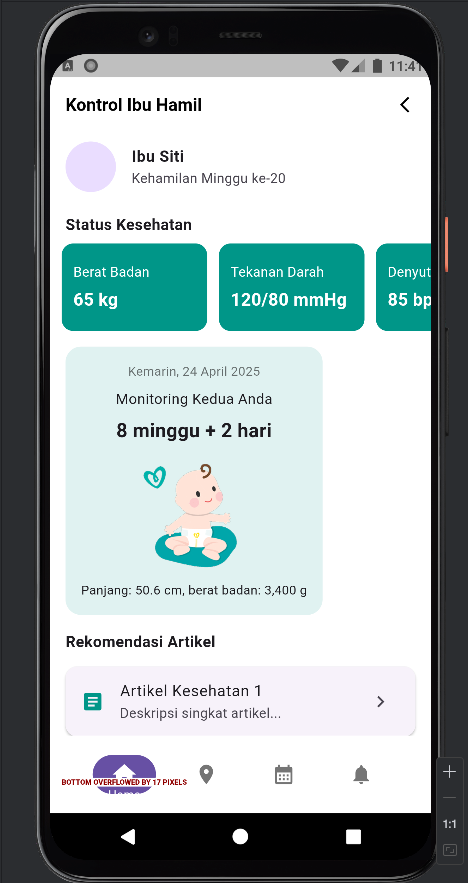
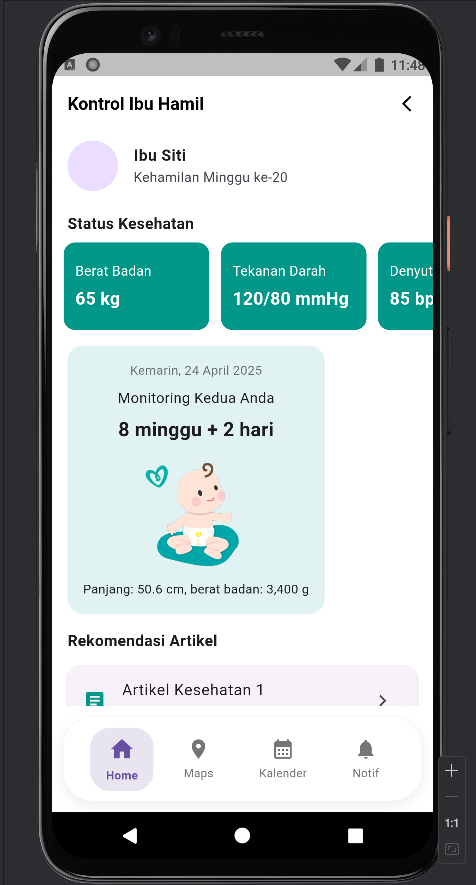
flutter integrasi

diff --git a/aplikasi/lib/main.dart b/aplikasi/lib/main.dart
@@ -1,6 +1,6 @@
 import 'dart:async';
 import 'package:flutter/material.dart';
-import 'package:animations/animations.dart'; // ⬅ tambahan
+import 'package:animations/animations.dart';
 import 'home_page.dart';
 import 'maps_page.dart';
 
@@ -107,7 +107,7 @@ class _SplashScreenState extends State<SplashScreen>
   }
 }
 
-/// MainScreen dengan custom bottom nav + transition
+/// MainScreen dengan modern bottom nav + transition
 class MainScreen extends StatefulWidget {
   const MainScreen({super.key});
 
@@ -143,69 +143,74 @@ class _MainScreenState extends State<MainScreen> {
           child: _pages[_currentIndex],
         ),
       ),
-      bottomNavigationBar: Container(
-        color: Colors.transparent,
-        child: ClipRRect(
-          borderRadius: const BorderRadius.only(
-            topLeft: Radius.circular(24),
-            topRight: Radius.circular(24),
-          ),
-          child: BottomAppBar(
+      bottomNavigationBar: Padding(
+        padding: const EdgeInsets.all(12.0),
+        child: Container(
+          decoration: BoxDecoration(
             color: Colors.white,
-            elevation: 8,
-            child: Padding(
-              padding: const EdgeInsets.symmetric(horizontal: 16, vertical: 8),
-              child: Row(
-                mainAxisAlignment: MainAxisAlignment.spaceAround,
-                children: List.generate(4, (index) {
-                  final icons = [
-                    Icons.home,
-                    Icons.location_on,
-                    Icons.calendar_month,
-                    Icons.notifications
-                  ];
-                  final labels = ["Home", "Maps", "Kalender", "Notif"];
-                  final isSelected = _currentIndex == index;
-
-                  return GestureDetector(
-                    onTap: () => setState(() => _currentIndex = index),
-                    child: AnimatedContainer(
-                      duration: const Duration(milliseconds: 300),
-                      padding: const EdgeInsets.symmetric(
-                          horizontal: 16, vertical: 8),
-                      decoration: BoxDecoration(
-                        color: isSelected
-                            ? Theme.of(context).primaryColor
-                            : Colors.transparent,
-                        borderRadius: BorderRadius.circular(20),
-                      ),
-                      child: Column(
-                        mainAxisSize: MainAxisSize.min,
-                        children: [
-                          AnimatedScale(
-                            duration: const Duration(milliseconds: 300),
-                            scale: isSelected ? 1.2 : 1.0,
-                            child: Icon(
-                              icons[index],
-                              color: isSelected
-                                  ? Colors.white
-                                  : Colors.grey.shade600,
-                            ),
-                          ),
-                          if (isSelected)
-                            Text(
-                              labels[index],
-                              style: const TextStyle(
-                                color: Colors.white,
-                                fontSize: 12,
-                              ),
-                            ),
-                        ],
-                      ),
-                    ),
-                  );
-                }),
+            borderRadius: BorderRadius.circular(30),
+            boxShadow: [
+              BoxShadow(
+                color: Colors.black.withOpacity(0.08),
+                blurRadius: 12,
+                offset: const Offset(0, 4),
               ),
+            ],
+          ),
+          child: Padding(
+            padding: const EdgeInsets.symmetric(vertical: 10, horizontal: 20),
+            child: Row(
+              mainAxisAlignment: MainAxisAlignment.spaceAround,
+              children: List.generate(4, (index) {
+                final icons = [
+                  Icons.home,
+                  Icons.location_on,
+                  Icons.calendar_month,
+                  Icons.notifications
+                ];
+                final labels = ["Home", "Maps", "Kalender", "Notif"];
+                final isSelected = _currentIndex == index;
+
+                return GestureDetector(
+                  onTap: () => setState(() => _currentIndex = index),
+                  child: AnimatedContainer(
+                    duration: const Duration(milliseconds: 300),
+                    padding: const EdgeInsets.symmetric(
+                        horizontal: 16, vertical: 8),
+                    decoration: BoxDecoration(
+                      color: isSelected
+                          ? Theme.of(context).primaryColor.withOpacity(0.15)
+                          : Colors.transparent,
+                      borderRadius: BorderRadius.circular(20),
+                    ),
+                    child: Column(
+                      mainAxisSize: MainAxisSize.min,
+                      children: [
+                        Icon(
+                          icons[index],
+                          size: isSelected ? 28 : 24,
+                          color: isSelected
+                              ? Theme.of(context).primaryColor
+                              : Colors.grey.shade600,
+                        ),
+                        const SizedBox(height: 4),
+                        Text(
+                          labels[index],
+                          style: TextStyle(
+                            fontSize: 12,
+                            fontWeight: isSelected
+                                ? FontWeight.bold
+                                : FontWeight.normal,
+                            color: isSelected
+                                ? Theme.of(context).primaryColor
+                                : Colors.grey.shade600,
+                          ),
+                        ),
+                      ],
+                    ),
+                  ),
+                );
+              }),
             ),
           ),
         ),

diff --git a/README.md b/README.md
@@ -51,10 +51,10 @@ Sistem **“Rute Bidan”** merupakan sistem informasi berbasis **client-server*
 
 ---
 
-## 📸 Screenshots
+## 📱 Screenshots
 
-### 🏠 Homepage
-![Homepage](assets/homepage.png)
+Berikut adalah tampilan aplikasi **MomCare**:
 
-### 🗺 Maps Page
-![Maps](assets/maps.png)
+| SplashScreen | HomePage | Maps Page |
+|--------------|----------|-----------|
+| <img src="assets/main.png" alt="SplashScreen" width="250"/> | <img src="assets/homepage.png" alt="HomePage" width="250"/> | <img src="assets/maps.png" alt="MapsPage" width="250"/> |
